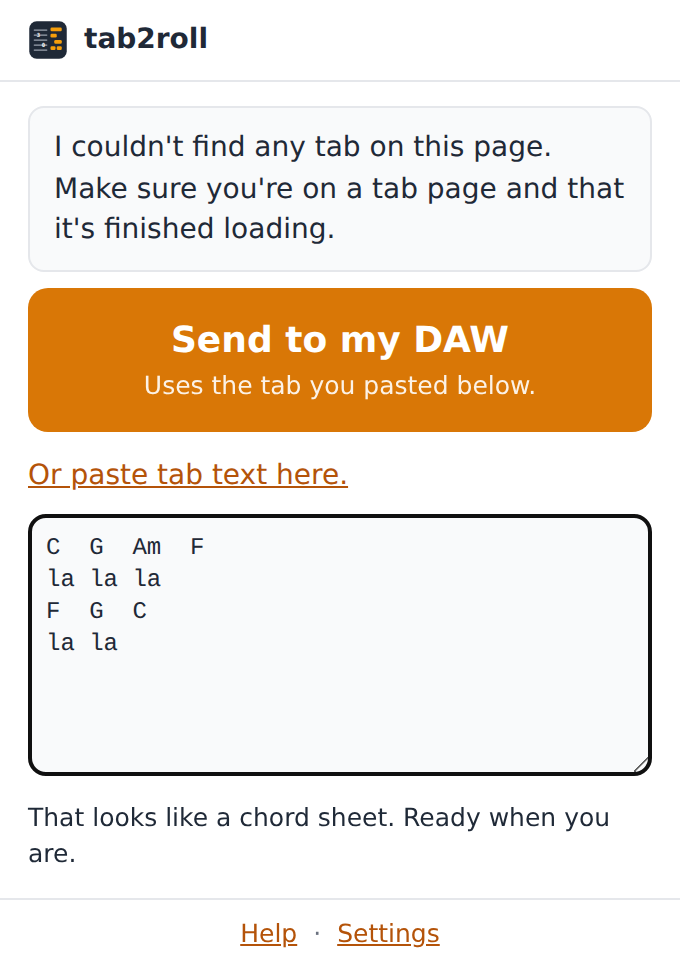
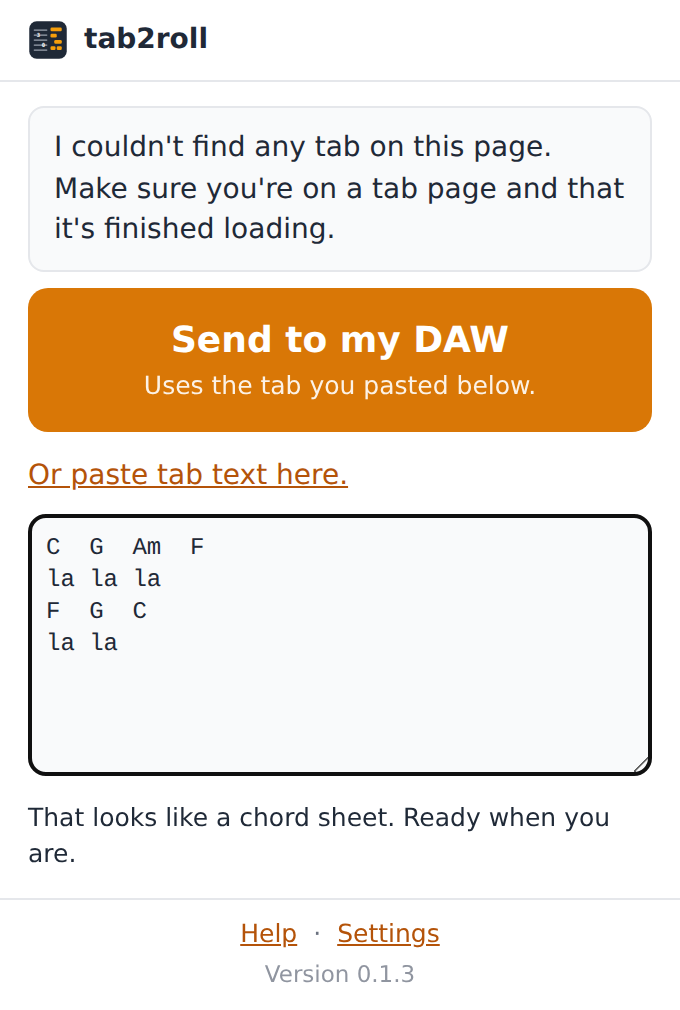
Show the version in the popup, and bump to 0.1.3
The number is read from the manifest at run time rather than written into
the copy, so what the popup shows can never drift from what is actually
installed. That makes it a quick way to confirm a reload of the add-on took
effect, which is exactly the thing that was hard to tell before.

A test keeps src/manifest.json and package.json agreeing on the version.

Claude-Session: https://claude.ai/code/session_01LRq65yDw7LTVnooJLdpc7Q

diff --git a/src/ui/popup.js b/src/ui/popup.js
@@ -4,7 +4,7 @@
 // Every user-facing string comes from src/strings.js. Real errors go to the
 // console; the user only ever sees plain language plus what to do next.
 
-import { fillStrings, browser, getOptions, getLastResult, setLastResult, openPage, STRINGS } from "./common.js";
+import { fillStrings, browser, getOptions, getLastResult, setLastResult, openPage, getVersion, STRINGS } from "./common.js";
 import { detect } from "../parse/index.js";
 import { SELECTABLE_TUNING_IDS } from "../parse/tuning.js";
 
@@ -262,6 +262,11 @@ function onConvertAnother() {
 // Wiring
 // --------------------------------------------------------------------------
 
+function showVersion() {
+  const version = getVersion();
+  $("version").textContent = version ? P.version(version) : "";
+}
+
 function wireEvents() {
   $("main-button").addEventListener("click", onMainClick);
   $("tuning-select").addEventListener("change", onTuningChange);
@@ -284,6 +289,7 @@ function wireEvents() {
 
 async function init() {
   fillStrings();
+  showVersion();
   buildTuningSelect();
   wireEvents();
   show("view-checking");

diff --git a/test/strings.test.js b/test/strings.test.js
@@ -69,3 +69,16 @@ test("UI code has no user-facing string literals (only strings.js does)", () => 
     assert.deepEqual(suspicious, [], `${file} has user-facing literals`);
   }
 });
+
+test("the popup shows the version, and manifest and package agree on it", () => {
+  const read = (p) => JSON.parse(readFileSync(new URL(p, import.meta.url), "utf8"));
+  const manifest = read("../src/manifest.json");
+  const pkg = read("../package.json");
+  assert.match(manifest.version, /^\d+\.\d+\.\d+$/);
+  assert.equal(manifest.version, pkg.version, "src/manifest.json and package.json disagree on the version");
+  // The popup reads the number from the manifest at run time; only its
+  // wording lives in strings.js.
+  assert.equal(STRINGS.popup.version(manifest.version), `Version ${manifest.version}`);
+  const html = readFileSync(new URL("../src/ui/popup.html", import.meta.url), "utf8");
+  assert.match(html, /id="version"/);
+});

diff --git a/test/popup.test.js b/test/popup.test.js
@@ -57,6 +57,7 @@ const STUB = (scenario) => `
     runtime: {
       id: "test",
       getURL: (p) => "/" + p,
+      getManifest: () => ({ version: "0.1.3" }),
       sendMessage: async (msg) => { calls.push(["sendMessage", msg]); return scenario.reply; },
       openOptionsPage: async () => { calls.push(["openOptionsPage"]); },
     },
@@ -115,6 +116,8 @@ test("popup smoke test in Chromium", { skip: !playwright && "playwright not avai
     assert.equal(await visible(page, "#main-action"), true);
     assert.equal(await text(page, "#main-button .label"), "Send to my DAW");
     assert.equal(await visible(page, "#paste-body"), false);
+    // The installed version is shown so a stale add-on is obvious at a glance.
+    assert.equal(await text(page, "#version"), "Version 0.1.3");
 
     await page.click("#main-button");
     await page.waitForSelector("#view-success:not([hidden])");

diff --git a/src/ui/common.js b/src/ui/common.js
@@ -70,6 +70,21 @@ export function setLastResult(result) {
   return writeStore("lastResult", result ? { ...result, at: Date.now() } : null);
 }
 
+/**
+ * The installed version, straight from the manifest, so what the popup shows
+ * can never drift from what is actually running. Useful when checking that a
+ * reload of the add-on took effect.
+ */
+export function getVersion() {
+  try {
+    const manifest = browser.runtime.getManifest();
+    return manifest && manifest.version ? String(manifest.version) : "";
+  } catch (err) {
+    console.warn("[tab2roll] could not read the version", err);
+    return "";
+  }
+}
+
 /** Open one of the bundled pages in a new tab. */
 export async function openPage(path) {
   try {

diff --git a/src/ui/popup.html b/src/ui/popup.html
@@ -70,9 +70,12 @@
     </main>
 
     <footer class="bottom">
-      <a href="#" id="link-help" data-str="popup.help"></a>
-      <span aria-hidden="true">·</span>
-      <a href="#" id="link-settings" data-str="popup.settings"></a>
+      <div class="links">
+        <a href="#" id="link-help" data-str="popup.help"></a>
+        <span aria-hidden="true">·</span>
+        <a href="#" id="link-settings" data-str="popup.settings"></a>
+      </div>
+      <span class="version" id="version"></span>
     </footer>
 
     <script type="module" src="popup.js"></script>

diff --git a/src/ui/popup.css b/src/ui/popup.css
@@ -230,10 +230,21 @@ select {
 
 .bottom {
   display: flex;
-  gap: 8px;
-  justify-content: center;
+  flex-direction: column;
+  align-items: center;
+  gap: 3px;
   padding: 8px 14px 10px;
   border-top: 1px solid var(--line);
   color: var(--muted);
   font-size: 12.5px;
+}
+
+.bottom .links {
+  display: flex;
+  gap: 8px;
+}
+
+.version {
+  font-size: 11.5px;
+  opacity: 0.75;
 }

diff --git a/src/strings.js b/src/strings.js
@@ -51,6 +51,7 @@ export const STRINGS = {
 
     help: "Help",
     settings: "Settings",
+    version: (number) => `Version ${number}`,
   },
 
   tunings: {
